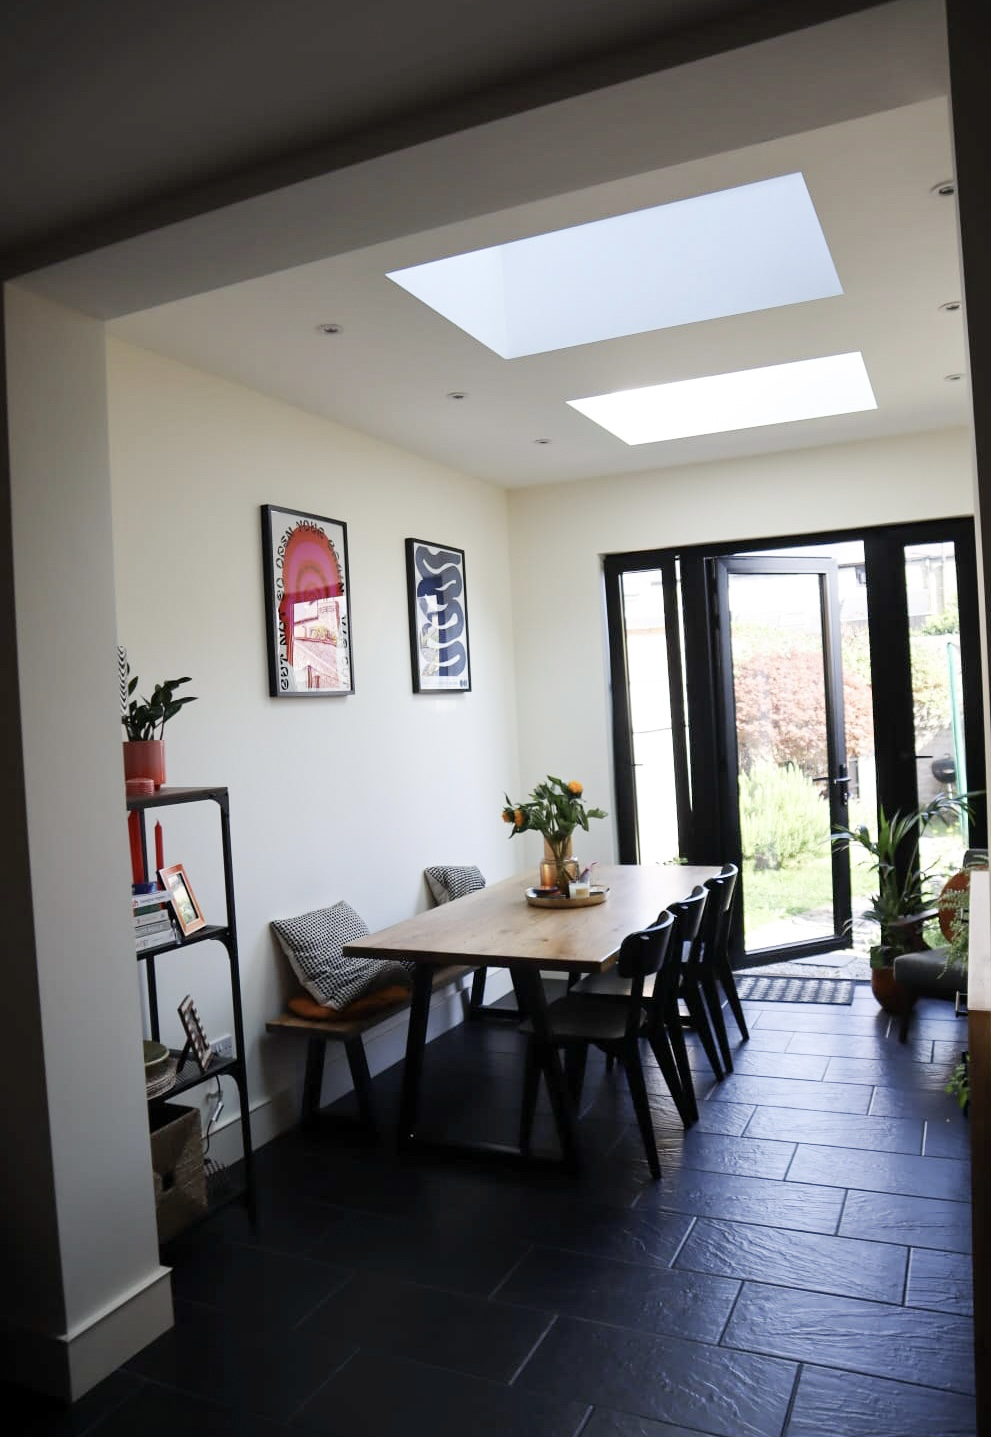
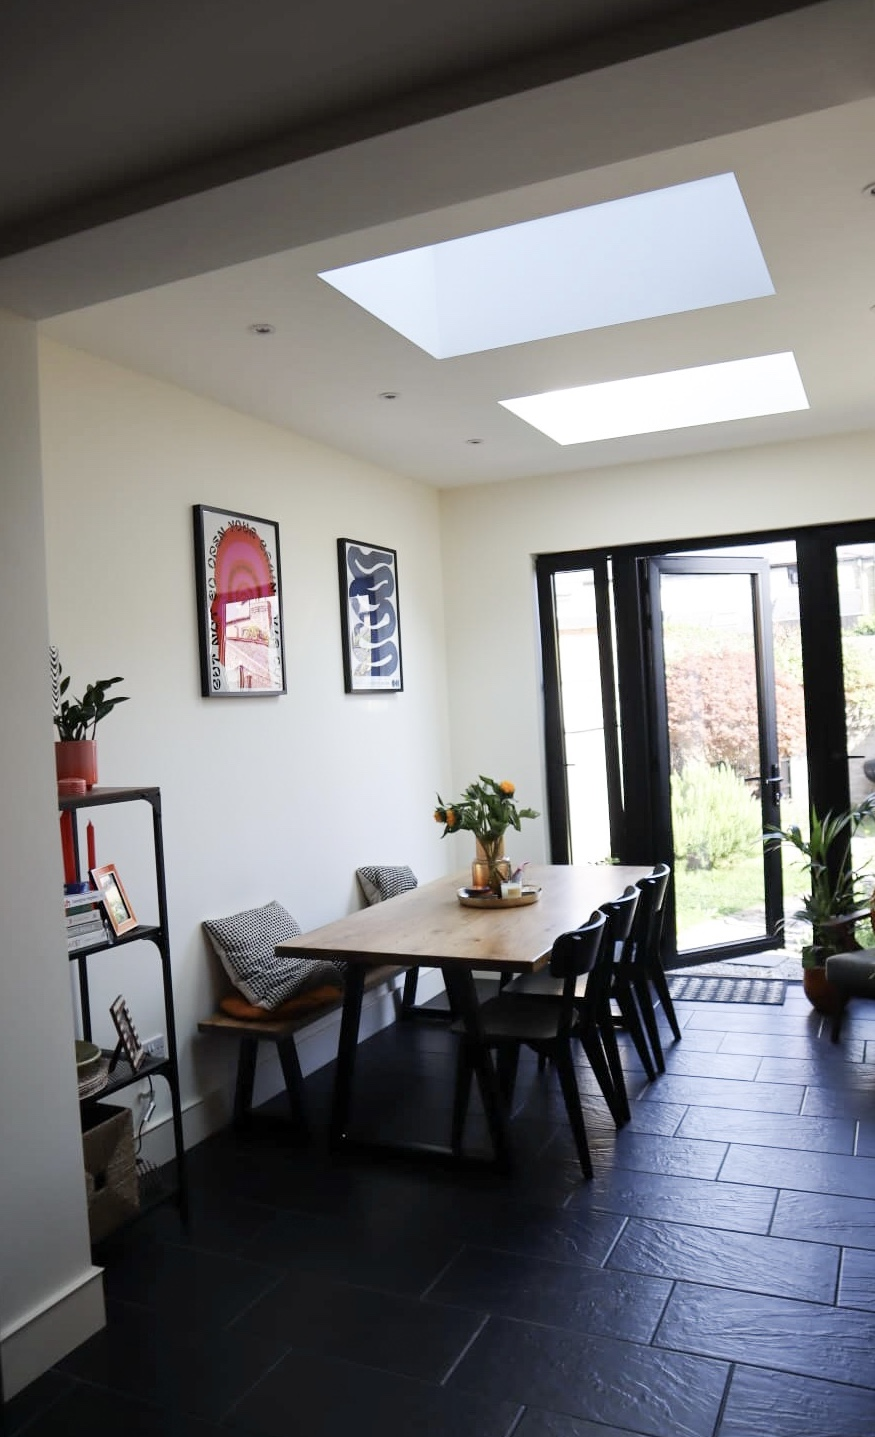
finished adding and styling positioning images for latest project

diff --git a/dublin3.html b/dublin3.html
@@ -109,7 +109,7 @@
             
                                 <div class="info-text">
                                     <span class="title">Location</span>
-                                    <span class="val">Co. Dublin</span>
+                                    <span class="val">Clonsilla, Co. Dublin</span>
                                 </div>
             
                                 <div class="info-text">
@@ -123,7 +123,7 @@
                                     <li>Demolition, removal and disposal.</li>
                                     <li>Excavation, mesh installation and concrete foundation.</li>
                                     <li>Floor structure suitable for insulation and radon barrier.</li>
-                                    <li>Constructing and merging extension house walls.</li>
+                                    <li>Construction and merging of extension house walls.</li>
                                     <li>Roof timber structure and protective membrane.</li>
                                     <li>Internal walls and ceiling: insulation and plasterboard.</li>
                                     <li>Skylight, door and fenestration installations.</li>
@@ -148,12 +148,12 @@
                         <a class="image-popup-gallery" href="images/dublin3/1.jpeg">
                         <span class="overlay">
                             <span class="pf_text">
-                                <span class="project-name">???</span>
+                                <span class="project-name">1</span>
                             </span>
                         </span>
                     </a>
 
-                        <img src="images/dublin3/1.jpeg" alt="" class="img-crop"/>
+                        <img src="images/dublin3/1.jpeg" alt="" class="img-crop" style="object-position: 50% 63%"/>
                     </div>
                 </div>
                 <!-- close gallery item -->
@@ -164,15 +164,130 @@
                         <a class="image-popup-gallery" href="images/dublin3/2.jpeg">
                         <span class="overlay">
                             <span class="pf_text">
-                                <span class="project-name">???</span>
+                                <span class="project-name">2</span>
                             </span>
                         </span>
                     </a>
 
-                        <img src="images/dublin3/2.jpeg" alt="" class="img-crop"/>
+                        <img src="images/dublin3/2.jpeg" alt="" class="img-crop" style="object-position: 50% 85%"/>
                     </div>
                 </div>
                 <!-- close gallery item -->
+
+                <!-- gallery item -->
+                <div class="col-md-6 item office">
+                    <div class="picframe">
+                        <a class="image-popup-gallery" href="images/dublin3/3.jpeg">
+                        <span class="overlay">
+                            <span class="pf_text">
+                                <span class="project-name">3</span>
+                            </span>
+                        </span>
+                    </a>
+
+                        <img src="images/dublin3/3.jpeg" alt="" class="img-crop"/>
+                    </div>
+                </div>
+                <!-- close gallery item -->
+
+                <!-- gallery item -->
+                <div class="col-md-6 item office">
+                    <div class="picframe">
+                        <a class="image-popup-gallery" href="images/dublin3/4.jpeg">
+                        <span class="overlay">
+                            <span class="pf_text">
+                                <span class="project-name">4</span>
+                            </span>
+                        </span>
+                    </a>
+
+                        <img src="images/dublin3/4.jpeg" alt="" class="img-crop"/>
+                    </div>
+                </div>
+                <!-- close gallery item -->
+
+                <!-- gallery item -->
+                <div class="col-md-6 item office">
+                    <div class="picframe">
+                        <a class="image-popup-gallery" href="images/dublin3/5.jpeg">
+                        <span class="overlay">
+                            <span class="pf_text">
+                                <span class="project-name">5</span>
+                            </span>
+                        </span>
+                    </a>
+
+                        <img src="images/dublin3/5.jpeg" alt="" class="img-crop" style="object-position: 50% 65%"/>
+                    </div>
+                </div>
+                <!-- close gallery item -->
+
+                <!-- gallery item -->
+                <div class="col-md-6 item office">
+                    <div class="picframe">
+                        <a class="image-popup-gallery" href="images/dublin3/6.jpeg">
+                        <span class="overlay">
+                            <span class="pf_text">
+                                <span class="project-name">6</span>
+                            </span>
+                        </span>
+                    </a>
+
+                        <img src="images/dublin3/6.jpeg" alt="" class="img-crop" style="object-position: 50% 65%"/>
+                    </div>
+                </div>
+                <!-- close gallery item -->
+
+                <!-- gallery item -->
+                <div class="col-md-6 item office">
+                    <div class="picframe">
+                        <a class="image-popup-gallery" href="images/dublin3/7.jpeg">
+                        <span class="overlay">
+                            <span class="pf_text">
+                                <span class="project-name">7</span>
+                            </span>
+                        </span>
+                    </a>
+
+                        <img src="images/dublin3/7.jpeg" alt="" class="img-crop" style="object-position: 50% 65%"/>
+                    </div>
+                </div>
+                <!-- close gallery item -->
+
+                <!-- gallery item -->
+                <div class="col-md-6 item office">
+                    <div class="picframe">
+                        <a class="image-popup-gallery" href="images/dublin3/9.jpeg">
+                        <span class="overlay">
+                            <span class="pf_text">
+                                <span class="project-name">8</span>
+                            </span>
+                        </span>
+                    </a>
+
+                        <img src="images/dublin3/10.jpeg" alt="" class="img-crop" style="object-position: 50% 55%"/>
+                    </div>
+                </div>
+                <!-- close gallery item -->
+
+                <!-- gallery item -->
+                <div class="col-md-6 item office">
+                    <div class="picframe">
+                        <a class="image-popup-gallery" href="images/dublin3/10.jpeg">
+                        <span class="overlay">
+                            <span class="pf_text">
+                                <span class="project-name">9</span>
+                            </span>
+                        </span>
+                    </a>
+
+                        <img src="images/dublin3/1.jpeg" alt="" class="img-crop" style="object-position: 50% 65%"/>
+                    </div>
+                </div>
+                <!-- close gallery item -->
+
+
+
             </div>
         </div>
     </section>

diff --git a/css/style.css b/css/style.css
@@ -12297,7 +12297,7 @@ ul#slide-list{
 .img-crop {
   width: 100%;
   max-height: 400px;
-  object-position: 50% 55%;
+  object-position: 50% 50%;
   object-fit: cover;
   overflow: hidden;
 
